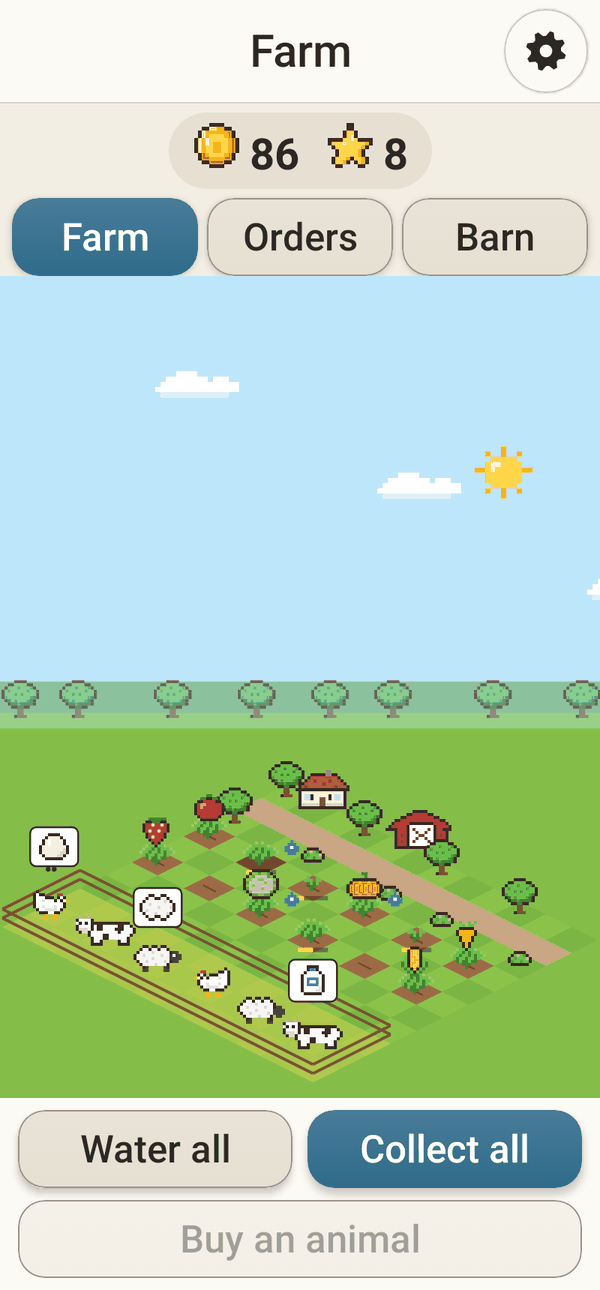
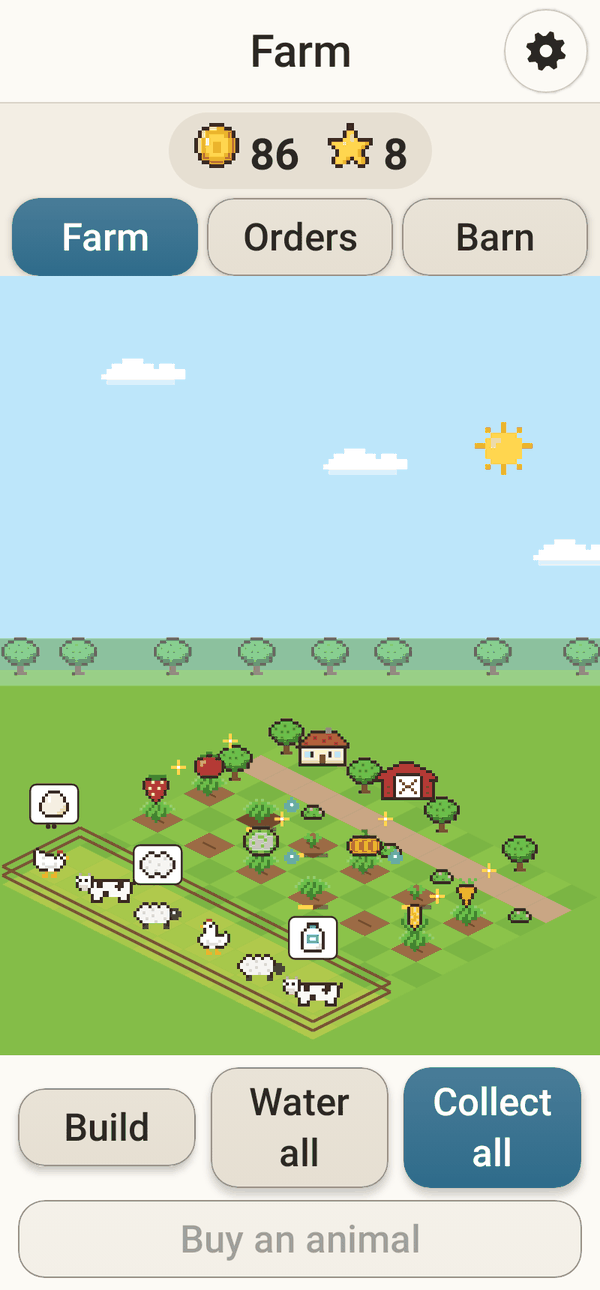
docs(farm): explain Build and the mill in all ten languages, with new screenshots

diff --git a/docs/ru/games/farm.md b/docs/ru/games/farm.md
@@ -23,6 +23,7 @@
 | Помидор | 20 мин | 9 | 12 | 3 |
 | Клубника | 40 мин | 12 | 16 | 5 |
 | Тыква | 90 мин | 20 | 28 | 8 |
+| Пшеница | 15 мин | 7 | 9 | мельница |
 
 ## Животные
 Покупайте животных кнопкой **Купить животное**. Каждое само даёт свой продукт и копит до **трёх** штук — они видны в облачке над ним; коснитесь животного (или **Забрать всё**, которая заодно собирает спелые грядки), чтобы отнести их в амбар.
@@ -32,6 +33,18 @@
 | Курица | Яйцо | 10 мин | 40 | 10 | 0 |
 | Корова | Молоко | 30 мин | 120 | 22 | 2 |
 | Овца | Шерсть | 60 мин | 200 | 40 | 4 |
+
+## Постройки и мельница
+Кнопка **Построить** (рядом с **Новая грядка** и **Купить животное**) открывает список того, что можно построить: у каждого есть рисунок, цена рядом с монетой и число звёзд, которых ещё не хватает. То, что пока недоступно, показано блёклым; коснитесь того, что готово, чтобы построить. Когда всё построено, кнопка исчезает.
+
+**Мельнице** нужно **6 звёзд**, и она стоит **120** монет. Она стоит на дальней дорожке, справа от амбара. Крылья медленно вращаются, пока она работает, и замирают, когда она отдыхает (если анимации выключены, они стоят на месте). После постройки пшеница появляется среди семян, а соседи начинают заказывать ещё и кукурузную и пшеничную муку.
+
+Коснитесь мельницы, чтобы открыть её карточку: у каждого рецепта показаны ингредиенты и сколько их в амбаре. **Молоть** забирает ингредиенты из амбара и начинает работу, а полоска показывает время. Мельница делает один рецепт за раз и держит в очереди до **3**. Если чего-то не хватает, кнопка остаётся на виду и говорит, чего ("Не хватает: Кукуруза ×2"). Когда мешок готов, над мельницей появляется облачко; коснитесь мельницы или **Забрать всё**, чтобы отправить его в амбар.
+
+| Продукт | Ингредиенты | Время | Цена продажи |
+|---|---|---|---|
+| Кукурузная мука | 2 Кукуруза | 10 мин | 22 |
+| Пшеничная мука | 2 Пшеница | 12 мин | 26 |
 
 ## Заказы и звёзды
 Соседи просят по несколько вещей и платят **в полтора раза больше**, чем рынок, да ещё дают **звезду**. Кнопка **Отдать** загорается, когда в амбаре всё есть. **Другой заказ** бесплатно меняет заказ на новый. Звёзды открывают новые семена и животных, как показано в таблицах.

diff --git a/docs/ar/games/farm.md b/docs/ar/games/farm.md
@@ -25,6 +25,7 @@
 | طماطم | 20 دقيقة | 9 | 12 | 3 |
 | فراولة | 40 دقيقة | 12 | 16 | 5 |
 | يقطين | 90 دقيقة | 20 | 28 | 8 |
+| قمح | 15 دقيقة | 7 | 9 | الطاحونة |
 
 ## الحيوانات
 اشترِ الحيوانات من **اشترِ حيوانًا**. كل حيوان يُنتج وحده ويحتفظ بما يصل إلى **ثلاثة** منتجات تظهر في فقاعة صغيرة فوقه؛ اضغط على الحيوان (أو على **اجمع الكل**، الذي يحصد الأحواض الناضجة أيضًا) لتنقلها إلى الحظيرة.
@@ -34,6 +35,18 @@
 | دجاجة | بيض | 10 دقيقة | 40 | 10 | 0 |
 | بقرة | حليب | 30 دقيقة | 120 | 22 | 2 |
 | خروف | صوف | 60 دقيقة | 200 | 40 | 4 |
+
+## البناء والطاحونة
+يفتح الزر **ابنِ** (بجانب **حوض جديد** و**اشترِ حيوانًا**) قائمة بما يمكن بناؤه، ولكل شيء رسمه وسعره بجانب العملة وعدد النجوم التي ما زالت ناقصة. ما لا يتوفر بعد يظهر باهتًا؛ اضغط على ما هو جاهز لتبنيه. يختفي الزر عندما يُبنى كل شيء.
+
+تحتاج **الطاحونة** إلى **6 نجوم** وتكلّف **120** عملة. تقف على الطريق الخلفي، إلى يمين الحظيرة. تدور أشرعتها ببطء وهي تعمل وتتوقف حين ترتاح (وتبقى ساكنة إذا كانت الحركة متوقفة). بعد بنائها ينضم القمح إلى البذور، ويبدأ الجيران بطلب دقيق الذرة ودقيق القمح أيضًا.
+
+اضغط على الطاحونة لتفتح بطاقتها: كل وصفة تعرض مكوناتها وكم عند الحظيرة منها. يأخذ **اطحن** المكونات من الحظيرة ويبدأ، ويُظهر شريط صغير الوقت. تطحن الطاحونة وصفة واحدة في كل مرة وتحتفظ بما يصل إلى **3** في الدور. إذا نقص شيء يبقى الزر ظاهرًا ويقول ما هو («ينقص: ذرة ×2»). عندما يجهز كيس تظهر فقاعة فوق الطاحونة؛ اضغط على الطاحونة أو على **اجمع الكل** لتنقله إلى الحظيرة.
+
+| المنتج | المكونات | الوقت | سعر البيع |
+|---|---|---|---|
+| دقيق الذرة | 2 ذرة | 10 دقيقة | 22 |
+| دقيق القمح | 2 قمح | 12 دقيقة | 26 |
 
 ## الطلبات والنجوم
 يطلب الجيران بضعة أشياء كل مرة، ويدفعون **مرة ونصفًا** مما يدفعه السوق، ومعها **نجمة**. يضيء زر **سلِّم** حين يكون كل شيء في الحظيرة. و**طلب آخر** يبدّل الطلب بطلب جديد مجانًا. النجوم تفتح بذورًا وحيوانات جديدة كما في الجدولين.

diff --git a/docs/ja/games/farm.md b/docs/ja/games/farm.md
@@ -23,6 +23,7 @@
 | トマト | 20分 | 9 | 12 | 3 |
 | いちご | 40分 | 12 | 16 | 5 |
 | かぼちゃ | 90分 | 20 | 28 | 8 |
+| 小麦 | 15分 | 7 | 9 | 風車小屋 |
 
 ## 動物
 **動物を買う** で動物を買います。どの動物もひとりでに産物を作り、**3つ** までためておきます（上の吹き出しに見えます）。動物（または **全部集める**。実った畝の収穫もいっしょにします）をタップすると納屋に運びます。
@@ -32,6 +33,18 @@
 | ニワトリ | たまご | 10分 | 40 | 10 | 0 |
 | ウシ | 牛乳 | 30分 | 120 | 22 | 2 |
 | ヒツジ | 羊毛 | 60分 | 200 | 40 | 4 |
+
+## 建物と風車小屋
+**建てる**ボタン（**畝を増やす**と**動物を買う**のとなり）を押すと、建てられるもののリストが開きます。それぞれ、絵、コインのとなりの値段、まだ足りない星の数が出ます。まだ建てられないものは薄く表示されます。準備ができたものをタップすると建ちます。全部建てるとボタンは消えます。
+
+**風車小屋**には星が**6個**必要で、**120**コインかかります。奥の道の、納屋の右に建ちます。はたらいている間は羽根がゆっくり回り、休んでいる間は止まります（アニメーションを切っているときはずっと止まったままです）。建てると、小麦が種のリストに加わり、近所の人たちはコーンミールと小麦粉も注文するようになります。
+
+風車小屋をタップするとカードが開きます。レシピごとに材料と、納屋にある数が出ます。**ひく**を押すと材料が納屋から出て、粉ひきが始まり、バーで時間がわかります。一度にひけるのは1つのレシピで、順番待ちは**3**つまで入ります。足りないものがあるときもボタンは見えたままで、何が足りないか書いてあります（「足りません：とうもろこし ×2」）。袋ができあがると風車小屋の上にふきだしが出ます。風車小屋か**全部集める**をタップすると、納屋に入ります。
+
+| できるもの | 材料 | 時間 | 売値 |
+|---|---|---|---|
+| コーンミール | とうもろこし 2 | 10分 | 22 |
+| 小麦粉 | 小麦 2 | 12分 | 26 |
 
 ## 注文と星
 近所の人が少しずつ注文してくれます。お礼は市場の **1.5倍** のコインと **星1つ** です。納屋にそろうと **届ける** が押せるようになります。**別の注文** で、無料で新しい注文に取りかえられます。星がたまると、表のとおり新しい種や動物が手に入ります。

diff --git a/docs/fr/games/farm.md b/docs/fr/games/farm.md
@@ -23,6 +23,7 @@ Quand vous touchez une planche ou un animal, ce qu'il dit (son nom, le temps res
 | Tomate | 20 min | 9 | 12 | 3 |
 | Fraise | 40 min | 12 | 16 | 5 |
 | Citrouille | 90 min | 20 | 28 | 8 |
+| Blé | 15 min | 7 | 9 | le moulin |
 
 ## Les animaux
 Achetez des animaux avec **Acheter un animal**. Chacun produit tout seul et garde jusqu’à **trois** produits en attente, montrés dans une petite bulle au-dessus ; touchez l’animal (ou **Tout ramasser**, qui récolte aussi les carrés mûrs) pour les mettre dans la grange.
@@ -32,6 +33,18 @@ Achetez des animaux avec **Acheter un animal**. Chacun produit tout seul et gard
 | Poule | Œuf | 10 min | 40 | 10 | 0 |
 | Vache | Lait | 30 min | 120 | 22 | 2 |
 | Mouton | Laine | 60 min | 200 | 40 | 4 |
+
+## Construire et le moulin
+Le bouton **Construire** (à côté de **Nouveau carré** et **Acheter un animal**) ouvre la liste de ce que l’on peut construire, avec pour chaque chose son dessin, son prix à côté de la pièce et le nombre d’étoiles qui manquent encore. Ce qui n’est pas encore disponible apparaît estompé ; touchez ce qui est prêt pour le construire. Le bouton disparaît quand tout est construit.
+
+Le **moulin** demande **6 étoiles** et coûte **120** pièces. Il se dresse sur le chemin du fond, à droite de la grange. Ses ailes tournent lentement quand il travaille et s’arrêtent quand il se repose (elles restent immobiles si les animations sont coupées). Une fois construit, le blé rejoint les graines et les voisins demandent aussi de la farine de maïs et de la farine de blé.
+
+Touchez le moulin pour ouvrir sa carte : chaque recette montre ses ingrédients et combien la grange en a. **Moudre** prend les ingrédients dans la grange et commence, et une petite barre montre le temps. Le moulin fait une recette à la fois et garde jusqu’à **3** dans sa file. S’il manque quelque chose, le bouton reste visible et dit quoi (« Il manque : Maïs ×2 »). Quand un sac est prêt, une bulle apparaît au-dessus du moulin ; touchez le moulin ou **Tout ramasser** pour le mettre dans la grange.
+
+| Produit | Ingrédients | Temps | Vendu |
+|---|---|---|---|
+| Farine de maïs | 2 Maïs | 10 min | 22 |
+| Farine de blé | 2 Blé | 12 min | 26 |
 
 ## Commandes et étoiles
 Les voisins demandent quelques produits à la fois et paient **moitié plus** que le marché, avec une **étoile** en prime. **Livrer** s’allume quand la grange a tout. **Autre commande** remplace une commande par une nouvelle, gratuitement. Les étoiles débloquent de nouvelles graines et de nouveaux animaux, comme le montrent les tableaux.

diff --git a/docs/de/games/farm.md b/docs/de/games/farm.md
@@ -23,6 +23,7 @@ Wenn du ein Beet oder ein Tier antippst, erscheint das, was es sagt (sein Name, 
 | Tomate | 20 Min. | 9 | 12 | 3 |
 | Erdbeere | 40 Min. | 12 | 16 | 5 |
 | Kürbis | 90 Min. | 20 | 28 | 8 |
+| Weizen | 15 Min. | 7 | 9 | die Mühle |
 
 ## Die Tiere
 Kaufe Tiere mit **Tier kaufen**. Jedes erzeugt von selbst sein Produkt und hält bis zu **drei** bereit, in einer kleinen Sprechblase darüber; tippe auf das Tier (oder **Alles einsammeln**, das auch die reifen Beete erntet), um sie in die Scheune zu bringen.
@@ -32,6 +33,18 @@ Kaufe Tiere mit **Tier kaufen**. Jedes erzeugt von selbst sein Produkt und hält
 | Huhn | Ei | 10 Min. | 40 | 10 | 0 |
 | Kuh | Milch | 30 Min. | 120 | 22 | 2 |
 | Schaf | Wolle | 60 Min. | 200 | 40 | 4 |
+
+## Bauen und die Mühle
+Der Knopf **Bauen** (neben **Neues Beet** und **Tier kaufen**) öffnet eine Liste dessen, was gebaut werden kann, jeweils mit Bild, dem Preis neben der Münze und den Sternen, die noch fehlen. Was noch nicht möglich ist, erscheint blass; tippen Sie auf etwas Fertiges, um es zu bauen. Der Knopf verschwindet, sobald alles gebaut ist.
+
+Die **Mühle** braucht **6 Sterne** und kostet **120** Münzen. Sie steht am hinteren Weg, rechts von der Scheune. Ihre Flügel drehen sich langsam, solange sie arbeitet, und stehen still, wenn sie ruht (sie bleiben stehen, wenn die Animationen aus sind). Nach dem Bau kommt der Weizen zu den Samen, und die Nachbarn bestellen auch Maismehl und Weizenmehl.
+
+Tippen Sie auf die Mühle, um ihre Karte zu öffnen: Jedes Rezept zeigt die Zutaten und wie viele die Scheune hat. **Mahlen** nimmt die Zutaten aus der Scheune und beginnt, ein Balken zeigt die Zeit. Die Mühle mahlt ein Rezept nach dem anderen und hält bis zu **3** in der Warteschlange. Fehlt etwas, bleibt der Knopf sichtbar und sagt, was ("Es fehlt: Mais ×2"). Ist ein Sack fertig, erscheint eine Blase über der Mühle; tippen Sie auf die Mühle oder auf **Alles einsammeln**, um ihn in die Scheune zu bringen.
+
+| Produkt | Zutaten | Zeit | Verkauf |
+|---|---|---|---|
+| Maismehl | 2 Mais | 10 Min. | 22 |
+| Weizenmehl | 2 Weizen | 12 Min. | 26 |
 
 ## Bestellungen und Sterne
 Die Nachbarn bestellen ein paar Dinge auf einmal und zahlen **anderthalbmal so viel** wie der Markt, dazu einen **Stern**. **Liefern** leuchtet auf, wenn die Scheune alles hat. **Andere Bestellung** tauscht eine Bestellung kostenlos gegen eine neue. Sterne bringen neue Samen und Tiere, wie die Tabellen zeigen.

diff --git a/docs/es/games/farm.md b/docs/es/games/farm.md
@@ -23,6 +23,7 @@ Cuando tocas un bancal o un animal, lo que dice (su nombre, el tiempo que falta,
 | Tomate | 20 min | 9 | 12 | 3 |
 | Fresa | 40 min | 12 | 16 | 5 |
 | Calabaza | 90 min | 20 | 28 | 8 |
+| Trigo | 15 min | 7 | 9 | molino |
 
 ## Los animales
 Compra animales con **Comprar un animal**. Cada uno produce solo y guarda hasta **tres** productos esperando, que se ven en un globito encima; toca el animal (o **Recoger todo**, que también cosecha los bancales maduros) para llevarlos al granero.
@@ -32,6 +33,18 @@ Compra animales con **Comprar un animal**. Cada uno produce solo y guarda hasta 
 | Gallina | Huevo | 10 min | 40 | 10 | 0 |
 | Vaca | Leche | 30 min | 120 | 22 | 2 |
 | Oveja | Lana | 60 min | 200 | 40 | 4 |
+
+## Construir y el molino
+El botón **Construir** (junto a **Nuevo bancal** y **Comprar un animal**) abre una lista de lo que se puede construir, cada cosa con su dibujo, su precio junto a la moneda y cuántas estrellas faltan todavía. Lo que aún no está disponible se ve apagado; toca lo que esté listo para construirlo. El botón desaparece cuando todo está construido.
+
+El **molino** necesita **6 estrellas** y cuesta **120** monedas. Está en el caminito del fondo, a la derecha del granero. Sus aspas giran despacio mientras trabaja y se paran cuando descansa (quedan quietas si las animaciones están desactivadas). Una vez construido, el trigo se suma a las semillas y los vecinos también empiezan a pedir harina de maíz y harina de trigo.
+
+Toca el molino para abrir su tarjeta: cada receta muestra sus ingredientes y cuántos hay en el granero. **Moler** saca los ingredientes del granero y empieza, y una barrita muestra el tiempo. El molino muele una receta cada vez y guarda hasta **3** en la cola. Si falta algo, el botón sigue a la vista y dice qué ("Faltan: Maíz ×2"). Cuando un saco está listo, aparece un globito sobre el molino; toca el molino o **Recoger todo** para llevarlo al granero.
+
+| Producto | Ingredientes | Tiempo | Se vende a |
+|---|---|---|---|
+| Harina de maíz | 2 Maíz | 10 min | 22 |
+| Harina de trigo | 2 Trigo | 12 min | 26 |
 
 ## Pedidos y estrellas
 Los vecinos piden unas cuantas cosas cada vez y pagan **la mitad más** que el mercado, y además una **estrella**. **Entregar** se activa cuando el granero lo tiene todo. **Otro pedido** cambia el pedido por uno nuevo, gratis. Las estrellas traen nuevas semillas y animales, como muestran las tablas.

diff --git a/docs/it/games/farm.md b/docs/it/games/farm.md
@@ -23,6 +23,7 @@ Quando tocchi un'aiuola o un animale, ciò che dice (il nome, il tempo che manca
 | Pomodoro | 20 min | 9 | 12 | 3 |
 | Fragola | 40 min | 12 | 16 | 5 |
 | Zucca | 90 min | 20 | 28 | 8 |
+| Grano | 15 min | 7 | 9 | il mulino |
 
 ## Gli animali
 Compra gli animali con **Compra un animale**. Ognuno produce da solo e tiene fino a **tre** prodotti in attesa, mostrati in un fumetto sopra di lui; tocca l’animale (o **Prendi tutto**, che raccoglie anche le aiuole mature) per portarli nel fienile.
@@ -32,6 +33,18 @@ Compra gli animali con **Compra un animale**. Ognuno produce da solo e tiene fin
 | Gallina | Uovo | 10 min | 40 | 10 | 0 |
 | Mucca | Latte | 30 min | 120 | 22 | 2 |
 | Pecora | Lana | 60 min | 200 | 40 | 4 |
+
+## Costruire e il mulino
+Il pulsante **Costruisci** (accanto a **Nuova aiuola** e **Compra un animale**) apre l’elenco di ciò che si può costruire, ognuno con il suo disegno, il prezzo accanto alla moneta e quante stelle mancano ancora. Ciò che non è ancora disponibile appare sbiadito; tocca ciò che è pronto per costruirlo. Il pulsante sparisce quando è tutto costruito.
+
+Il **mulino** richiede **6 stelle** e costa **120** monete. Sorge sul sentiero in fondo, a destra del fienile. Le pale girano piano mentre lavora e si fermano quando riposa (restano ferme se le animazioni sono disattivate). Una volta costruito, il grano entra tra i semi e i vicini cominciano a chiedere anche farina di mais e farina di grano.
+
+Tocca il mulino per aprire la sua scheda: ogni ricetta mostra gli ingredienti e quanti ne ha il fienile. **Macina** prende gli ingredienti dal fienile e comincia, e una barretta mostra il tempo. Il mulino fa una ricetta alla volta e tiene fino a **3** in coda. Se manca qualcosa, il pulsante resta in vista e dice cosa ("Mancano: Mais ×2"). Quando un sacco è pronto, compare un fumetto sopra il mulino; tocca il mulino o **Prendi tutto** per portarlo nel fienile.
+
+| Prodotto | Ingredienti | Tempo | Si vende a |
+|---|---|---|---|
+| Farina di mais | 2 Mais | 10 min | 22 |
+| Farina di grano | 2 Grano | 12 min | 26 |
 
 ## Ordini e stelle
 I vicini chiedono poche cose alla volta e pagano **la metà in più** del mercato, più una **stella**. **Consegna** si accende quando il fienile ha tutto. **Altro ordine** cambia l’ordine con uno nuovo, gratis. Le stelle portano nuovi semi e animali, come mostrano le tabelle.

diff --git a/docs/en/games/farm.md b/docs/en/games/farm.md
@@ -23,6 +23,7 @@ When you tap a bed or an animal, what it says (its name, the time left, "Harvest
 | Tomato | 20 min | 9 | 12 | 3 |
 | Strawberry | 40 min | 12 | 16 | 5 |
 | Pumpkin | 90 min | 20 | 28 | 8 |
+| Wheat | 15 min | 7 | 9 | the mill |
 
 ## The animals
 Buy animals with **Buy an animal**. Each one makes its product on its own and keeps up to **three** waiting, shown in a little bubble above it; tap the animal (or **Collect all**, which also harvests the ripe beds) to take them to the barn.
@@ -32,6 +33,18 @@ Buy animals with **Buy an animal**. Each one makes its product on its own and ke
 | Chicken | Egg | 10 min | 40 | 10 | 0 |
 | Cow | Milk | 30 min | 120 | 22 | 2 |
 | Sheep | Wool | 60 min | 200 | 40 | 4 |
+
+## Building and the mill
+The **Build** button (next to **New bed** and **Buy an animal**) opens a list of what can be built, each with its picture, its price next to the coin and how many stars are still missing. What is not available yet shows faded; tap one that is ready to build it. The button disappears once everything is built.
+
+The **mill** needs **6 stars** and costs **120** coins. It stands on the back lane, to the right of the barn. Its sails turn slowly while it works and stop when it rests (they stay still if animations are off). Once it is built, wheat joins the seeds and the neighbours also start asking for corn meal and flour.
+
+Tap the mill to open its card: each recipe shows its ingredients and how many the barn has. **Grind** takes the ingredients from the barn and starts, and a bar shows the time. The mill grinds one recipe at a time and keeps up to **3** in its queue. If something is missing, the button stays in view and says what ("Missing: Corn ×2"). When a sack is ready, a bubble appears over the mill; tap the mill or **Collect all** to take it to the barn.
+
+| Product | Ingredients | Time | Sells for |
+|---|---|---|---|
+| Corn meal | 2 Corn | 10 min | 22 |
+| Flour | 2 Wheat | 12 min | 26 |
 
 ## Orders and stars
 Neighbours ask for a few things at a time and pay **half as much again** as the market, plus a **star**. **Deliver** lights up when the barn has everything. **Another order** swaps an order for a new one, free. Stars bring new seeds and animals, as the tables show.

diff --git a/docs/zh-CN/games/farm.md b/docs/zh-CN/games/farm.md
@@ -23,6 +23,7 @@
 | 番茄 | 20分钟 | 9 | 12 | 3 |
 | 草莓 | 40分钟 | 12 | 16 | 5 |
 | 南瓜 | 90分钟 | 20 | 28 | 8 |
+| 小麦 | 15分钟 | 7 | 9 | 磨坊 |
 
 ## 动物
 用 **买动物** 购买动物。每只动物会自己产出东西，最多攒 **三个**，显示在它上方的小气泡里；点动物（或 **全部收集**，它也会收获成熟的菜畦）把它们放进谷仓。
@@ -32,6 +33,18 @@
 | 母鸡 | 鸡蛋 | 10分钟 | 40 | 10 | 0 |
 | 奶牛 | 牛奶 | 30分钟 | 120 | 22 | 2 |
 | 绵羊 | 羊毛 | 60分钟 | 200 | 40 | 4 |
+
+## 建造和磨坊
+**建造**按钮（在**新菜畦**和**买动物**旁边）会打开可以建造的东西的列表，每一项都有图片、金币旁的价格，以及还差几颗星星。还不能建的会显得发灰；点一下准备好的就能建造。全部建好后，按钮会消失。
+
+**磨坊**需要**6颗星星**，价格是**120**金币。它建在后面的小路上，谷仓的右边。工作时风车叶片慢慢转动，休息时停下（关闭动画时叶片一直不动）。建好后，小麦会加入种子列表，邻居们也会开始要玉米粉和面粉。
+
+点一下磨坊打开它的卡片：每个配方都显示材料，以及谷仓里有多少。点**磨粉**会从谷仓取走材料并开始，一个小进度条显示时间。磨坊一次做一个配方，队伍里最多排**3**个。如果缺少什么，按钮仍然显示，并说明缺什么（“还缺：玉米 ×2”）。袋子做好后，磨坊上方会出现一个气泡；点一下磨坊或**全部收集**，就把它放进谷仓。
+
+| 产品 | 材料 | 时间 | 售价 |
+|---|---|---|---|
+| 玉米粉 | 玉米 2 | 10分钟 | 22 |
+| 面粉 | 小麦 2 | 12分钟 | 26 |
 
 ## 订单和星星
 邻居每次要几样东西，付的钱比市场 **多一半**，还送一颗 **星星**。谷仓里东西齐了，**交货** 就会亮起来。**换一个订单** 可以免费换成新订单。星星多了会解锁新的种子和动物，见上面的表格。
